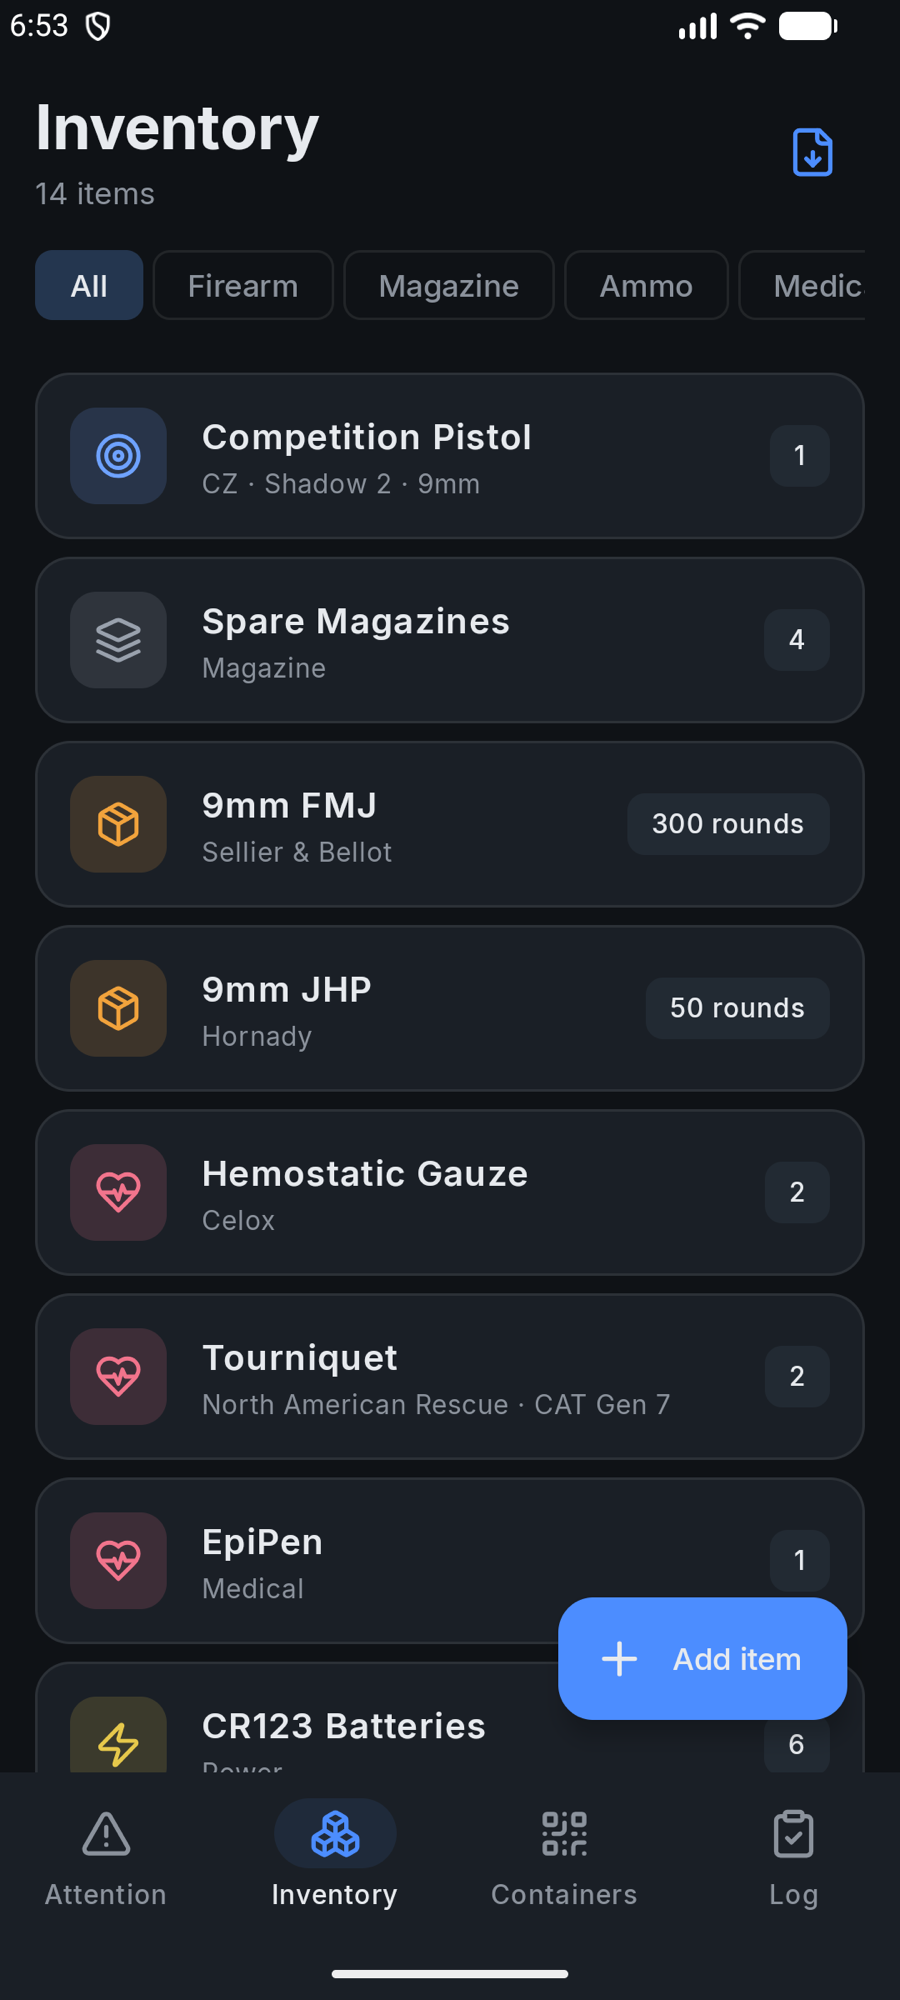
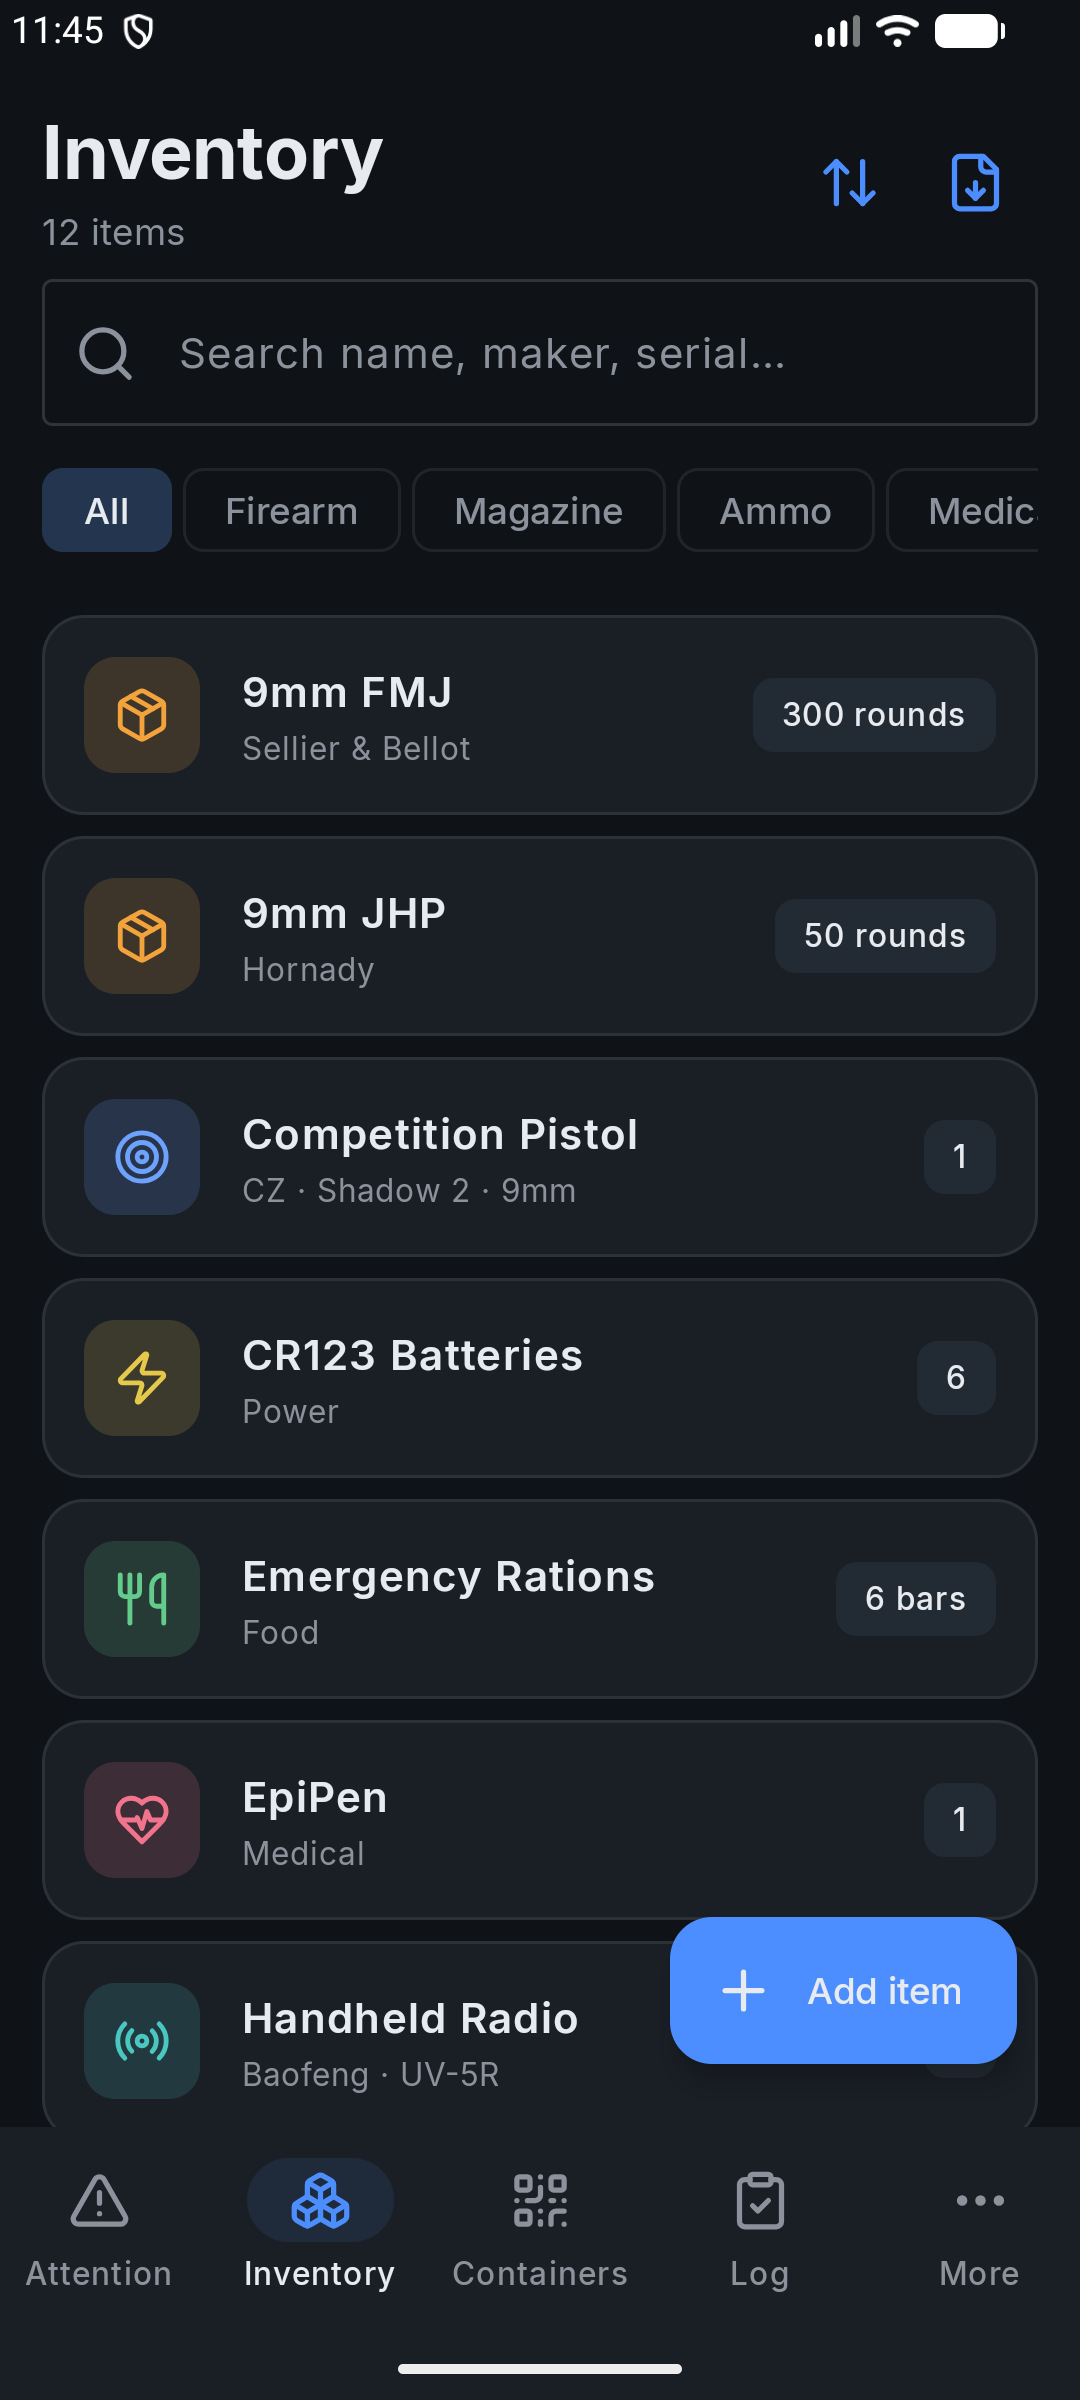
Refresh mockups + copy for the richer app (vault, kits, insights, reminders)
The app has grown well past the screens this site showed. Re-shoot from the
current build and bring the copy current.

- Gallery: swap in Kit readiness, Document vault and Insights alongside the
  refreshed Dashboard and Inventory + the container QR view.
- Re-shoot Dashboard and Inventory (richer demo data, search/sort, severity
  grouping).
- Features: add "Cost & usage insights" and "Reminders before it lapses".
- Build timeline: loss-doc export is now CSV + PDF; vault / kits / insights /
  reminders marked done; next is faster capture + onboarding, then launch.

diff --git a/index.html b/index.html
@@ -189,6 +189,8 @@
             <div class="card feature"><div class="ico"><svg viewBox="0 0 24 24" fill="none" stroke="currentColor" stroke-width="2" stroke-linecap="round" stroke-linejoin="round"><path d="M15 2H6a2 2 0 0 0-2 2v16a2 2 0 0 0 2 2h12a2 2 0 0 0 2-2V7Z" /><path d="M14 2v4a2 2 0 0 0 2 2h4" /><path d="M16 13H8" /><path d="M16 17H8" /><path d="M10 9H8" /></svg></div><h3>Instant loss documentation</h3><p>One tap produces a clean PDF/CSV — serials, photos, valuations, locations — for a police report or insurance claim.</p></div>
             <div class="card feature"><div class="ico"><svg viewBox="0 0 24 24" fill="none" stroke="currentColor" stroke-width="2" stroke-linecap="round" stroke-linejoin="round"><rect x="2" y="5" width="20" height="14" rx="2" /><path d="M16 10h2" /><path d="M16 14h2" /><path d="M6.17 15a3 3 0 0 1 5.66 0" /><circle cx="9" cy="11" r="2" /></svg></div><h3>Document &amp; licence vault</h3><p>Permits, licences, registrations and IDs with expiry reminders — same encrypted-vault DNA.</p></div>
             <div class="card feature"><div class="ico"><svg viewBox="0 0 24 24" fill="none" stroke="currentColor" stroke-width="2" stroke-linecap="round" stroke-linejoin="round"><path d="M4 10a4 4 0 0 1 4-4h8a4 4 0 0 1 4 4v8a4 4 0 0 1-4 4H8a4 4 0 0 1-4-4z" /><path d="M9 6V5a3 3 0 0 1 6 0v1" /><path d="M9 14h6" /><path d="M9 18h6" /></svg></div><h3>Go-bag &amp; loadout checks</h3><p>Define kits, check readiness at a glance, and see what you chronically forget. Grab-and-go confidence.</p></div>
+            <div class="card feature"><div class="ico"><svg viewBox="0 0 24 24" fill="none" stroke="currentColor" stroke-width="2" stroke-linecap="round" stroke-linejoin="round"><path d="M3 3v16a2 2 0 0 0 2 2h16" /><path d="M18 17V9" /><path d="M13 17V5" /><path d="M8 17v-3" /></svg></div><h3>Cost &amp; usage insights</h3><p>See what your kit is worth, where the value sits, and how much you actually shoot — collection value by category and rounds by firearm.</p></div>
+            <div class="card feature"><div class="ico"><svg viewBox="0 0 24 24" fill="none" stroke="currentColor" stroke-width="2" stroke-linecap="round" stroke-linejoin="round"><path d="M10.268 21a2 [phone redacted]" /><path d="M3.262 15.326A1 1 0 0 0 4 17h16a1 1 0 0 0 .74-1.673C19.[phone redacted] 18 8A6 6 0 0 0 6 8c0 [phone redacted].[phone redacted]" /></svg></div><h3>Reminders before it lapses</h3><p>Local notifications ahead of a service, an expiry or a renewal — scheduled on-device, days before the deadline. No account, nothing leaves your phone.</p></div>
           </div>
         </div>
       </section>
@@ -227,9 +229,10 @@
           </div>
           <div class="gallery reveal">
             <div class="shot"><div class="device"><span class="island"></span><div class="screen"><img src="assets/screenshots/needs-attention-ios.png" alt="OpState readiness dashboard, grouped by severity" width="216" loading="lazy" /><div class="gloss"></div></div></div><p class="shot-label">Dashboard</p></div>
-            <div class="shot"><div class="device"><span class="island"></span><div class="screen"><img src="assets/screenshots/inventory-android.png" alt="OpState inventory list with category filters" width="216" loading="lazy" /><div class="gloss"></div></div></div><p class="shot-label">Inventory</p></div>
-            <div class="shot"><div class="device"><span class="island"></span><div class="screen"><img src="assets/screenshots/log-android.png" alt="Logging a range session in OpState" width="216" loading="lazy" /><div class="gloss"></div></div></div><p class="shot-label">Range log</p></div>
-            <div class="shot"><div class="device"><span class="island"></span><div class="screen"><img src="assets/screenshots/containers-android.png" alt="OpState containers list" width="216" loading="lazy" /><div class="gloss"></div></div></div><p class="shot-label">Containers</p></div>
+            <div class="shot"><div class="device"><span class="island"></span><div class="screen"><img src="assets/screenshots/inventory-android.png" alt="OpState inventory list with category filters and search" width="216" loading="lazy" /><div class="gloss"></div></div></div><p class="shot-label">Inventory</p></div>
+            <div class="shot"><div class="device"><span class="island"></span><div class="screen"><img src="assets/screenshots/kits-android.png" alt="A range-bag loadout with each required item marked ready, low or missing" width="216" loading="lazy" /><div class="gloss"></div></div></div><p class="shot-label">Kit readiness</p></div>
+            <div class="shot"><div class="device"><span class="island"></span><div class="screen"><img src="assets/screenshots/vault-android.png" alt="The document vault: permits, passport and insurance with renewal dates" width="216" loading="lazy" /><div class="gloss"></div></div></div><p class="shot-label">Document vault</p></div>
+            <div class="shot"><div class="device"><span class="island"></span><div class="screen"><img src="assets/screenshots/insights-android.png" alt="Insights: collection value broken down by category" width="216" loading="lazy" /><div class="gloss"></div></div></div><p class="shot-label">Insights</p></div>
             <div class="shot"><div class="device"><span class="island"></span><div class="screen"><img src="assets/screenshots/container-contents-ios.png" alt="A container's QR code and its contents" width="216" loading="lazy" /><div class="gloss"></div></div></div><p class="shot-label">Container · QR</p></div>
           </div>
         </div>
@@ -249,9 +252,10 @@
               <li class="done"><span class="ms">Shared core &amp; Readiness Engine<span class="tag">Done</span></span><p>Domain models, unit conversion, the deterministic engine + its executable test spec.</p></li>
               <li class="done"><span class="ms">Encrypted storage<span class="tag">Done</span></span><p>AES-256 SQLCipher on both platforms; keys in Keychain / Keystore; biometric unlock.</p></li>
               <li class="done"><span class="ms">The apps, on iOS &amp; Android<span class="tag">Done</span></span><p>One shared UI — dashboard, inventory, range log — reading the real encrypted database.</p></li>
-              <li class="done"><span class="ms">Loss-documentation export<span class="tag">Done</span></span><p>One-tap CSV (PDF next) for insurance and police reports.</p></li>
+              <li class="done"><span class="ms">Loss-documentation export<span class="tag">Done</span></span><p>One-tap CSV <em>and</em> a paginated PDF — serials, valuations, locations — for insurance and police reports.</p></li>
               <li class="done"><span class="ms">Containers + QR<span class="tag">Done</span></span><p>Group gear into cases and safes; scan a QR to jump to its contents.</p></li>
-              <li class="next"><span class="ms">Notifications + richer PDF, then launch<span class="tag">Next</span></span><p>Local reminders that drive the engine, a polished export — and the free worldwide release.</p></li>
+              <li class="done"><span class="ms">Vault, kits, insights &amp; reminders<span class="tag">Done</span></span><p>A document vault, go-bag readiness checks, cost &amp; usage insights, and on-device reminders before anything lapses.</p></li>
+              <li class="next"><span class="ms">Faster capture + onboarding, then launch<span class="tag">Next</span></span><p>Barcode/label capture and a first-run flow — then the free worldwide release.</p></li>
             </ul>
           </div>
         </div>